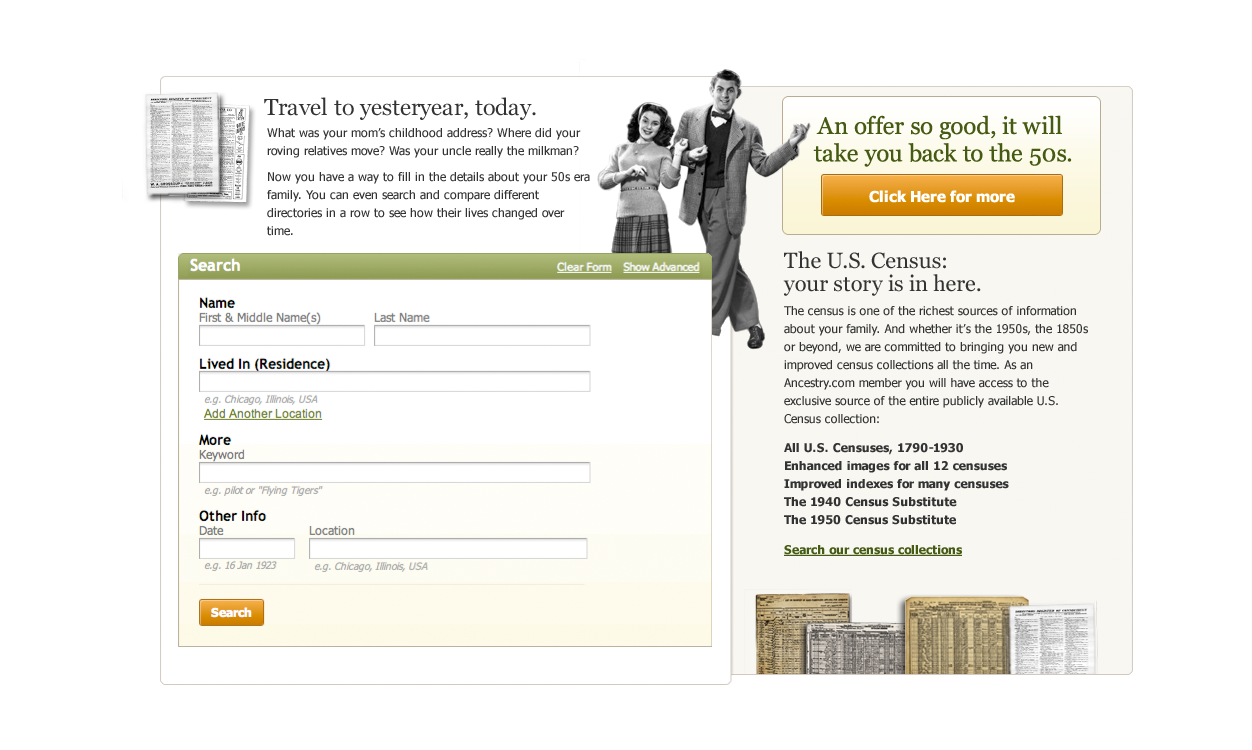
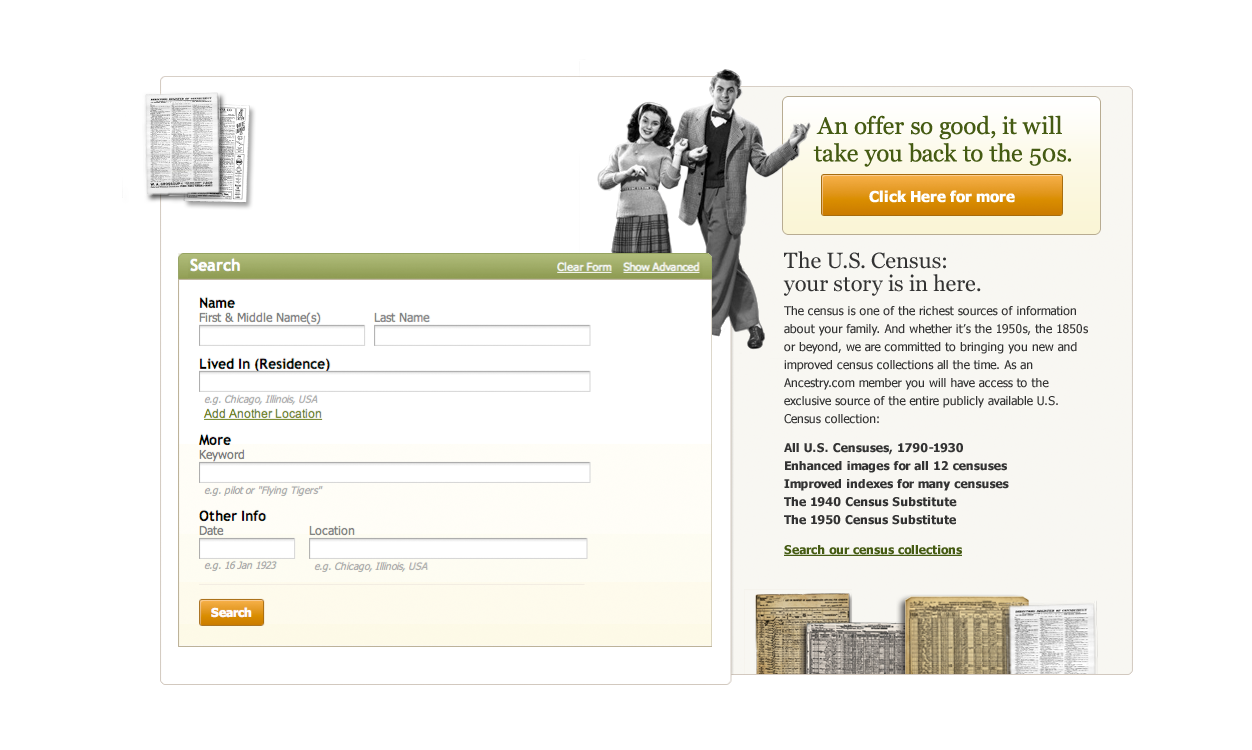
start apply font text and adjust text, ps. in psd text no organized, so in html i put justify for users see better text.

Changed region(s): [[0.2181, 0.1227, 0.4673, 0.3067]]

diff --git a/style.css b/style.css
@@ -40,6 +40,11 @@ html {
 
 		}
 		
+    h1 {
+ 		font:23px/1.1 'GeorgiaRegular', Helvetica, Helvetica Neue, Arial, sans-serif;
+	    text-align:left;
+        }
+		
 		.w980 {width:980px; position:relative;  margin:0px auto; }
 		.ie {height:615px;  }
 		.bg {position:relative; height:60px; }
@@ -78,16 +83,19 @@ html {
 						border:1px solid  #000000;
 
 				}
-				.travel h1
+				.travel 
 				{
-						width:320px; 
+						width:330px; 
 						height:100px; 
-						padding:1px 5px 20px; 
+						padding:0px 5px 20px; 
 						position:relative; 
 						margin:-14px 0 0 55px;
 						border:1px solid  #000000;
 						float:left;
-						font:23px/1.1 'GeorgiaRegular', Helvetica, Helvetica Neue, Arial, sans-serif;
+						font:12px/1.1 'TahomaNormal', Helvetica, Helvetica Neue, Arial, sans-serif;
+						color:#000;
+						text-align:justify;
+						
 
 				}
 				.click-here h2

diff --git a/home.html b/home.html
@@ -28,7 +28,7 @@
 	                         	<div class="travel">
 									  <h1> Travel to yesteryear, today.</h1><br />
 
-							 What was your mom's childhood address? Where did your roving relatives move? Was your uncle really the milkman?
+							 What was your mom's childhood address? Where did your roving relatives move? Was your uncle really the milkman?<br /><br />
 									Now you have a way to fill in the details about your 50s era family. You can even search and compare different directories in a row to see how their lives changed over time.
 	                         	</div>
 
